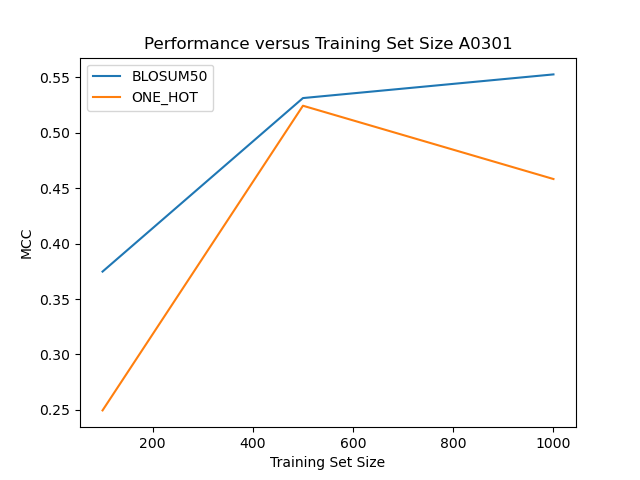
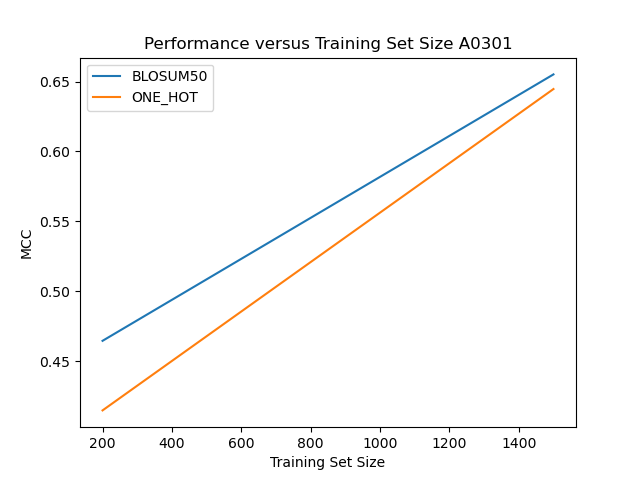
Updated

diff --git a/code/main.py b/code/main.py
@@ -8,119 +8,115 @@ import torch.nn as nn
 import torch.optim as optim
 from torch.utils.data import TensorDataset, DataLoader
 from sklearn.metrics import roc_curve, auc, matthews_corrcoef
+from sklearn.model_selection import train_test_split
 import pandas as pd
 
 # Define hyperparameters
-EPOCHS = 800
-MINI_BATCH_SIZE = 32
-N_HIDDEN_NEURONS_1 = 16
-N_HIDDEN_NEURONS_2 = 16
+EPOCHS = 1000
+MINI_BATCH_SIZE = 64
+N_HIDDEN_NEURONS_1 = 32
+N_HIDDEN_NEURONS_2 = 32
 LEARNING_RATE = 0.01
 PATIENCE = EPOCHS // 10
 
 ## Loop over different encodings and training sizes
+seeds = [1, 2]
 alleles = ['A0301']
 encodings = ["BLOSUM50","ONE_HOT"]
-train_sizes = [100, 500, 1000]
+train_sizes = [200, 1500]
 perm_test = len(alleles)*len(encodings)*len(train_sizes)
 
-df_test = pd.DataFrame(columns=['Allele', 'Encoding', 'Train_size', 'MCC', 'AUC'])
+df_test = pd.DataFrame(columns=['Seed', 'Allele', 'Encoding', 'Train_size', 'MCC', 'AUC'])
 
-for i, allele in enumerate(alleles):
-    for j, encoding in enumerate(encodings):
-        for k, train_size in enumerate(train_sizes):
-       
-            print(f"Training and testing on allele {allele} using encoding: {encoding} with training data size: {train_size}") 
-    
-            ## Do parsing
-            filename="../data/%s.dat"%allele
-            X_raw = load_peptide_target(filename)
-    
-            ## Do encoding
-            scheme_file = f"../data/schemes/{encoding}"
-            X_encoded, Y = encode_peptides(X_raw, scheme_file)
-            n_features = X_encoded.shape[-1]
-            print(f"Number of features in encoding: {n_features}")
-    
-            ## Prepare data for ANN
-            #Split into train, validation and test
-            TEST_SPLIT = 0.1
-            TRAIN_VALID_SPLIT = 0.8
-            X_encoded_test = X_encoded[:int(TEST_SPLIT*len(X_encoded))]
-            Y_test = Y[:int(TEST_SPLIT*len(Y))]
-            x_test_ = X_encoded_test
-            y_test_ = Y_test
-    
-            # Extract train and valid data
-            X_encoded_trainval = X_encoded[int(TEST_SPLIT*len(X_encoded)):]
-            Y_trainval = Y[int(TEST_SPLIT*len(X_encoded)):]
-    
-            # Split into train and val
-            x_train_ = X_encoded_trainval[:int(TRAIN_VALID_SPLIT*len(X_encoded_trainval))]
-            x_valid_ = X_encoded_trainval[int(TRAIN_VALID_SPLIT*len(X_encoded_trainval)):]
-            y_train_ = Y_trainval[:int(TRAIN_VALID_SPLIT*len(X_encoded_trainval))]
-            y_valid_ = Y_trainval[int(TRAIN_VALID_SPLIT*len(X_encoded_trainval)):]
-    
-            # Adjust training data size
-            x_train_ = x_train_[:train_size]
-            y_train_ = y_train_[:train_size]
-    
-            # Reshape
-            x_train_ = x_train_.reshape(x_train_.shape[0], -1)
-            x_valid_ = x_valid_.reshape(x_valid_.shape[0], -1)
-            x_test_ = x_test_.reshape(x_test_.shape[0], -1)
-            n_features = x_train_.shape[1]
-    
-            # Convert to tensors
-            x_train = Variable(torch.from_numpy(x_train_.astype('float32')))
-            y_train = Variable(torch.from_numpy(y_train_.astype('float32'))).view(-1, 1)
-            x_valid = Variable(torch.from_numpy(x_valid_.astype('float32')))
-            y_valid = Variable(torch.from_numpy(y_valid_.astype('float32'))).view(-1, 1)
-            x_test = Variable(torch.from_numpy(x_valid_.astype('float32')))
-            y_test = Variable(torch.from_numpy(y_valid_.astype('float32'))).view(-1, 1)
-    
-            # Initialize net
-            net = ANN(n_features, N_HIDDEN_NEURONS_1, N_HIDDEN_NEURONS_2)
-            net.apply(init_weights)
-    
-            # Initialize optimizer and loss
-            optimizer = optim.Adam(net.parameters(), lr=LEARNING_RATE)
-            criterion = nn.MSELoss()
-            
-            # Train ANN
-            train_loader = DataLoader(dataset=TensorDataset(x_train, y_train), batch_size=MINI_BATCH_SIZE, shuffle=True)
-            valid_loader = DataLoader(dataset=TensorDataset(x_valid, y_valid), batch_size=MINI_BATCH_SIZE, shuffle=True)
-            net, train_loss, valid_loss = train_with_minibatches(net, train_loader, valid_loader, EPOCHS, PATIENCE, optimizer, criterion)
-    
-            # Plot learning curve
-            #plot_losses(train_loss, valid_loss)
-    
-            ## Evaluate on test set
-            # Make test predictions
-            net.eval()
-            pred = net(x_test)
-    
-            # Transform test data and predictions into classes
-            BINDER_THRESHOLD = 0.426
-            y_test_class = np.where(y_test.flatten() >= BINDER_THRESHOLD, 1, 0)
-            y_pred_class = np.where(pred.flatten() >= BINDER_THRESHOLD, 1, 0)
-    
-            # Compute correlations
-            mcc = matthews_corrcoef(y_test_class, y_pred_class)
-    
-            # Compute AUC
-            fpr, tpr, threshold = roc_curve(y_test_class, pred.flatten().detach().numpy())
-            roc_auc = auc(fpr, tpr)
+for i, seed in enumerate (seeds):
+    for j, allele in enumerate(alleles):
+        for k, encoding in enumerate(encodings):
+            for l, train_size in enumerate(train_sizes):
+           
+                print(f"Using seed: {seed}. Training and testing on allele {allele} using encoding: {encoding} with training data size: {train_size}") 
+        
+                ## Do parsing
+                filename="../data/%s.dat"%allele
+                X_raw = load_peptide_target(filename)
+        
+                ## Do encoding
+                scheme_file = f"../data/schemes/{encoding}"
+                X_encoded, Y = encode_peptides(X_raw, scheme_file)
+                n_features = X_encoded.shape[-1]
+                print(f"Number of features in encoding: {n_features}")
+        
+                ## Prepare data for ANN
+                # Extract test set
+                TEST_SPLIT = 0.1
+                x_test_ = X_encoded[:int(TEST_SPLIT*len(X_encoded))]
+                y_test_ = Y[:int(TEST_SPLIT*len(Y))]
+        
+                # Split remaining data into random train and valid sets
+                X_trainval = X_encoded[int(TEST_SPLIT*len(X_encoded)):]
+                Y_trainval = Y[int(TEST_SPLIT*len(X_encoded)):]
+                x_train_, x_valid_, y_train_, y_valid_ = train_test_split(X_trainval, Y_trainval, test_size=0.2, random_state=seed)    
 
-            # Add to df
-            df_test = df_test.append({'Allele': allele, 
-                                      'Encoding': encoding, 
-                                      'Train_size': train_size, 
-                                      'MCC': mcc,
-                                      'AUC': roc_auc}, 
-                                     ignore_index = True)            
-            
-            print(f"Allele {allele} using encoding {encoding} with training size {train_size} achieves MCC of {mcc:.2f} and AUC of {roc_auc:.2f}")
+                # Adjust training data size
+                x_train_ = x_train_[:train_size]
+                y_train_ = y_train_[:train_size]
+        
+                # Reshape
+                x_train_ = x_train_.reshape(x_train_.shape[0], -1)
+                x_valid_ = x_valid_.reshape(x_valid_.shape[0], -1)
+                x_test_ = x_test_.reshape(x_test_.shape[0], -1)
+                n_features = x_train_.shape[1]
+        
+                # Convert to tensors
+                x_train = Variable(torch.from_numpy(x_train_.astype('float32')))
+                y_train = Variable(torch.from_numpy(y_train_.astype('float32'))).view(-1, 1)
+                x_valid = Variable(torch.from_numpy(x_valid_.astype('float32')))
+                y_valid = Variable(torch.from_numpy(y_valid_.astype('float32'))).view(-1, 1)
+                x_test = Variable(torch.from_numpy(x_valid_.astype('float32')))
+                y_test = Variable(torch.from_numpy(y_valid_.astype('float32'))).view(-1, 1)
+        
+                # Initialize net
+                net = ANN(n_features, N_HIDDEN_NEURONS_1, N_HIDDEN_NEURONS_2)
+                net.apply(init_weights)
+        
+                # Initialize optimizer and loss
+                optimizer = optim.Adam(net.parameters(), lr=LEARNING_RATE)
+                criterion = nn.MSELoss()
+                
+                # Train ANN
+                train_loader = DataLoader(dataset=TensorDataset(x_train, y_train), batch_size=MINI_BATCH_SIZE, shuffle=True)
+                valid_loader = DataLoader(dataset=TensorDataset(x_valid, y_valid), batch_size=MINI_BATCH_SIZE, shuffle=True)
+                net, train_loss, valid_loss = train_with_minibatches(net, train_loader, valid_loader, EPOCHS, PATIENCE, optimizer, criterion)
+        
+                # Plot learning curve
+                #plot_losses(train_loss, valid_loss)
+        
+                ## Evaluate on test set
+                # Make test predictions
+                net.eval()
+                pred = net(x_test)
+        
+                # Transform test data and predictions into classes
+                BINDER_THRESHOLD = 0.426
+                y_test_class = np.where(y_test.flatten() >= BINDER_THRESHOLD, 1, 0)
+                y_pred_class = np.where(pred.flatten() >= BINDER_THRESHOLD, 1, 0)
+        
+                # Compute correlations
+                mcc = matthews_corrcoef(y_test_class, y_pred_class)
+        
+                # Compute AUC
+                fpr, tpr, threshold = roc_curve(y_test_class, pred.flatten().detach().numpy())
+                roc_auc = auc(fpr, tpr)
+
+                # Add to df
+                df_test = df_test.append({'Seed': seed,
+                                          'Allele': allele, 
+                                          'Encoding': encoding, 
+                                          'Train_size': train_size, 
+                                          'MCC': mcc,
+                                          'AUC': roc_auc}, 
+                                         ignore_index = True)            
+                
+                print(f"Allele {allele} using encoding {encoding} with training size {train_size} achieves MCC of {mcc:.2f} and AUC of {roc_auc:.2f}")
 
 print(df_test)
 

diff --git a/code/plots.py b/code/plots.py
@@ -94,7 +94,7 @@ def performance_encoding_plot(df, perf_measure):
         fig, axes = plt.subplots()
         for encod, d in d_.groupby('Encoding'):
             axes.set_title("Performance versus Training Set Size %s"%allele)
-            axes.plot(d["Train_size"], d[perf_measure], linestyle='-', label=encod )
+            axes.plot(d["Train_size"].unique(), d.groupby("Train_size")[perf_measure].mean(), linestyle='-', label=encod )
             axes.legend(loc = 'upper left')
             axes.set_ylabel('%s'%perf_measure)
             axes.set_xlabel("Training Set Size")

diff --git a/code/model.py b/code/model.py
@@ -26,9 +26,14 @@ class ANN(nn.Module):
         self.bn_1 = nn.BatchNorm1d(num_features=n_l1)
         self.bn_2 = nn.BatchNorm1d(num_features=n_l2)
 
+        # Dropout
+        self.dropout = nn.Dropout(0.5)
+
     def forward(self, x):
         x = self.bn_1(self.leakyrelu(self.fc1(x)))
+        x = self.dropout(x)
         x = self.bn_2(self.leakyrelu(self.fc2(x)))
+        x = self.dropout(x)
         x = self.fc3(x)
         return x
     
